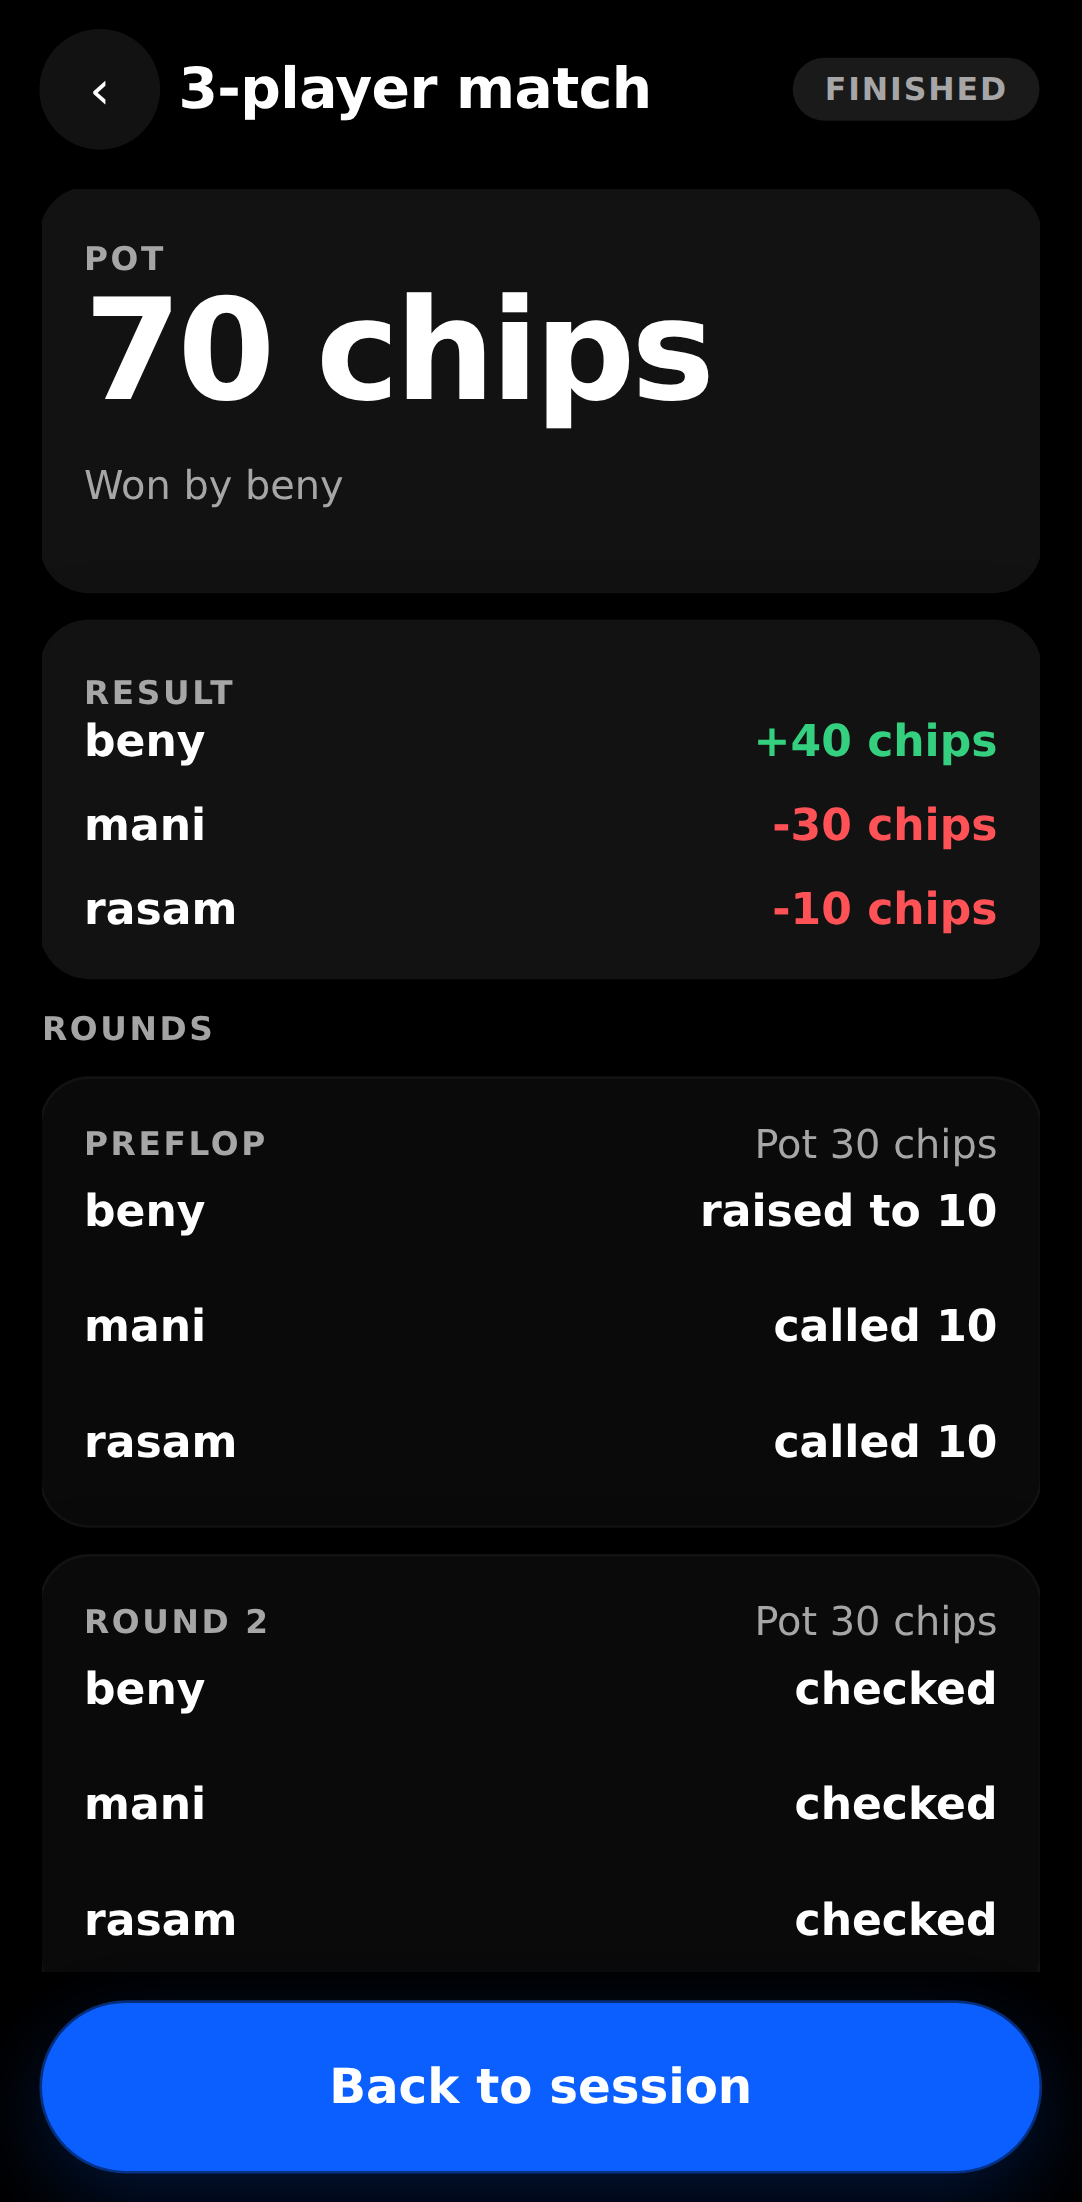
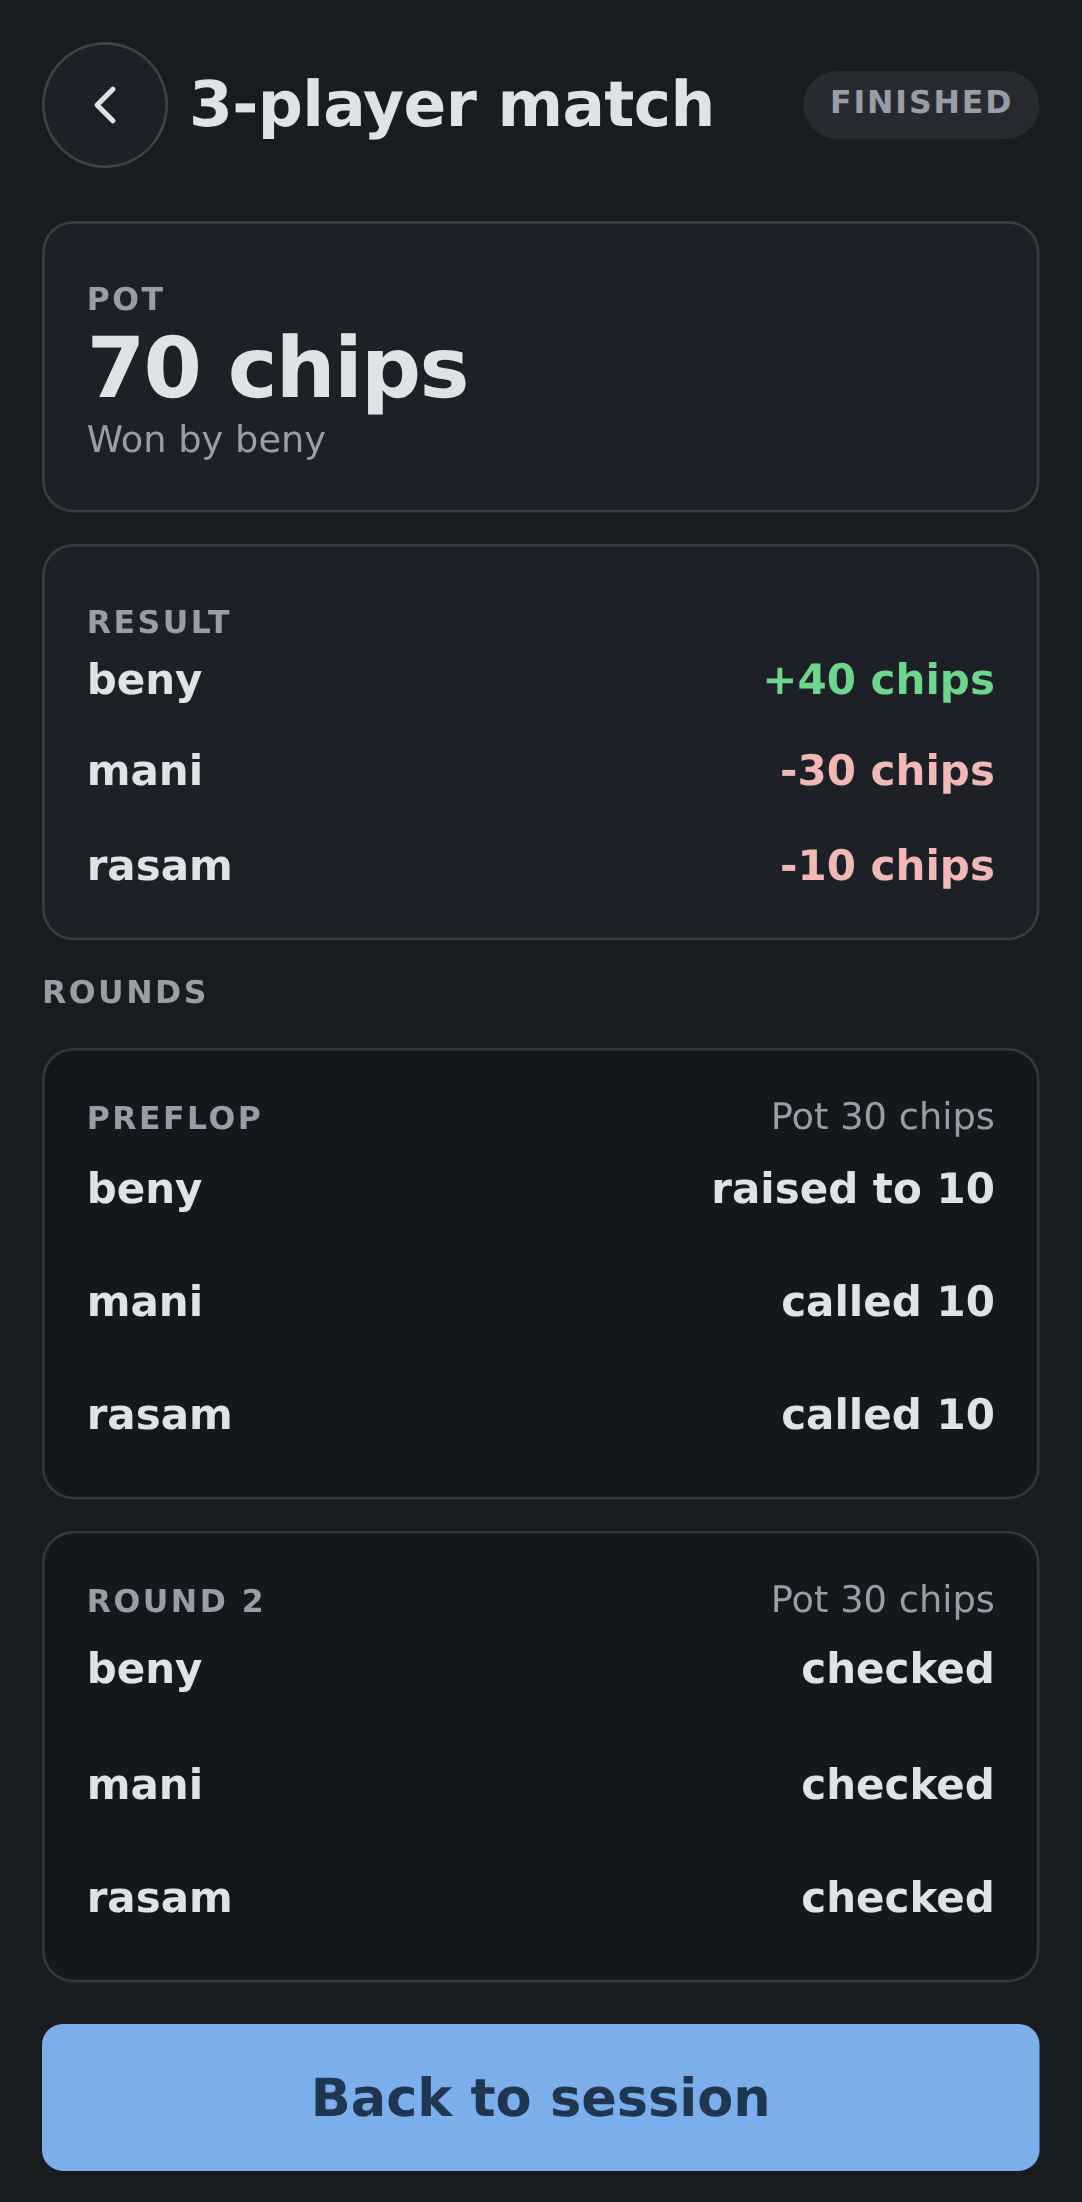
docs: regenerate screenshots and document house-style redesign

diff --git a/scripts/screenshots.ts b/scripts/screenshots.ts
@@ -3,7 +3,7 @@ import { existsSync } from "node:fs";
 import { mkdir, rm } from "node:fs/promises";
 import path from "node:path";
 import { fileURLToPath } from "node:url";
-import { type Page, chromium, devices } from "@playwright/test";
+import { type Browser, type Page, chromium, devices } from "@playwright/test";
 import type { AppConfig, Session } from "../src/domain";
 
 const root = fileURLToPath(new URL("..", import.meta.url));
@@ -11,7 +11,7 @@ const workDir = path.join(root, ".screenshots");
 const dataDir = path.join(workDir, "data");
 const locationFile = path.join(workDir, "location.yaml");
 const outputDir = path.join(root, "docs", "screenshots");
-const port = Number(process.env.SCREENSHOTS_PORT ?? 7405);
+const port = Number(process.env.SCREENSHOTS_PORT ?? 7407);
 const base = `http://127.0.0.1:${port}`;
 
 const config: AppConfig = {
@@ -165,9 +165,52 @@ async function shot(
 ): Promise<void> {
   await page.goto(`${base}${route}`, { waitUntil: "domcontentloaded" });
   await page.getByText(readyText, { exact: false }).first().waitFor({ timeout: 15_000 });
+  const theme = await page.evaluate(() => document.documentElement.dataset.theme);
+  if (theme !== "dark") {
+    throw new Error(`expected the dark theme for ${name}, got ${String(theme)}`);
+  }
   await page.waitForTimeout(300);
   await page.screenshot({ path: path.join(outputDir, `${name}.png`), fullPage });
   console.log(`captured ${name}.png`);
+}
+
+const THEME_STRIP = [
+  { name: "theme-light", theme: "light", colorScheme: "light", seed: null },
+  { name: "theme-dark", theme: "dark", colorScheme: "dark", seed: null },
+  { name: "theme-oled", theme: "oled", colorScheme: "light", seed: "oled" },
+] as const;
+
+async function captureThemeStrip(browser: Browser, route: string): Promise<void> {
+  const phone = devices["Pixel 7"];
+  for (const entry of THEME_STRIP) {
+    const context = await browser.newContext({
+      userAgent: phone.userAgent,
+      viewport: phone.viewport,
+      deviceScaleFactor: phone.deviceScaleFactor,
+      isMobile: phone.isMobile,
+      hasTouch: phone.hasTouch,
+      colorScheme: entry.colorScheme,
+      locale: "en-US",
+    });
+    if (entry.seed) {
+      const seeded = entry.seed;
+      await context.addInitScript((theme: string) => {
+        localStorage.setItem("poker.pot:theme", theme);
+        localStorage.setItem("poker.pot:accent", "blue");
+      }, seeded);
+    }
+    const page = await context.newPage();
+    await page.goto(`${base}${route}`, { waitUntil: "domcontentloaded" });
+    await page.getByText("Choose winners", { exact: false }).first().waitFor({ timeout: 15_000 });
+    const actual = await page.evaluate(() => document.documentElement.dataset.theme);
+    if (actual !== entry.theme) {
+      throw new Error(`expected ${entry.theme} for ${entry.name}, got ${String(actual)}`);
+    }
+    await page.waitForTimeout(300);
+    await page.screenshot({ path: path.join(outputDir, `${entry.name}.png`) });
+    console.log(`captured ${entry.name}.png`);
+    await context.close();
+  }
 }
 
 async function main(): Promise<void> {
@@ -200,6 +243,10 @@ async function main(): Promise<void> {
       colorScheme: "dark",
       locale: "en-US",
     });
+    await context.addInitScript(() => {
+      localStorage.setItem("poker.pot:theme", "dark");
+      localStorage.setItem("poker.pot:accent", "blue");
+    });
     const page = await context.newPage();
 
     await shot(page, "setup", "/setup", "private data folder", true);
@@ -219,6 +266,8 @@ async function main(): Promise<void> {
     await shot(page, "settings", "/settings", "Minimum raise", true);
 
     await context.close();
+
+    await captureThemeStrip(browser, `/sessions/${fridayId}/matches/${liveMatchId}`);
   } finally {
     await browser.close();
     server.kill("SIGTERM");

diff --git a/README.md b/README.md
@@ -22,8 +22,15 @@ editable, and standings recompute from it.
 | --- | --- | --- |
 | ![Session overview](docs/screenshots/session.png) | ![Settings](docs/screenshots/settings.png) | ![First-run setup](docs/screenshots/setup.png) |
 
+| Light | Dark | OLED |
+| --- | --- | --- |
+| ![Live match in Light](docs/screenshots/theme-light.png) | ![Live match in Dark](docs/screenshots/theme-dark.png) | ![Live match in OLED](docs/screenshots/theme-oled.png) |
+
+The base screenshots are captured in Dark; the theme strip shows the same live
+match in Light / Dark / OLED.
+
 Regenerate them with `bun run screenshots`. The script builds the app, starts a
-throwaway server on port 7405 with its own temporary data directory (it does not
+throwaway server on port 7407 with its own temporary data directory (it does not
 touch `location.yaml`), seeds a demo session, and captures the screens with
 Playwright. Install the browser once with `bunx playwright install chromium`. If
 the Playwright CDN is blocked, prefix the install with
@@ -40,6 +47,10 @@ bun run dev
 
 `bun run dev` starts two processes: the Bun API on `0.0.0.0:7403` and the Vite
 dev server on `0.0.0.0:7404` (strict), which proxies `/api` to the API.
+
+The app ships Light, Dark, and OLED themes with six accent colors (blue by
+default), switched in Settings → Appearance. The first run follows the system
+`prefers-color-scheme`, OLED is opt-in, and the choice is stored per device.
 
 To serve the built app and API from one process, for a phone on the same
 network:
@@ -61,7 +72,10 @@ first if needed. It logs to `/tmp/poker.pot-liveserver.log`, writes a pid to
 with `LIVE_SERVER_PORT`.
 
 Other scripts: `bun run test`, `bun run test:watch`, `bun run typecheck`,
-`bun run lint`, `bun run format`, `bun run screenshots`.
+`bun run lint`, `bun run format`, `bun run theme`, `bun run screenshots`.
+
+`bun run theme` regenerates `src/client/styles/tokens.css` from the palette in
+the design reference; the file is committed and never hand-edited.
 
 `bin/dev`, `bin/build` and `bin/run` are wrappers around the matching `bun`
 commands for shell aliasing.

diff --git a/AGENTS.md b/AGENTS.md
@@ -13,11 +13,11 @@ Personal projects use allocated ports in the 7400–7499 range. The pins live in
 | --- | --- | --- |
 | Live (UI + API) | `0.0.0.0:7403` | `./scripts/live.sh` (background) or `bun start` |
 | Dev Vite | `0.0.0.0:7404` | `bun run dev` (proxies `/api` to `http://localhost:7403`) |
-| Screenshots (transient) | `127.0.0.1:7405` | `bun run screenshots` |
+| Screenshots (transient) | `127.0.0.1:7407` | `bun run screenshots` |
 
 `bun run screenshots` is a transient, local-only helper: it starts a throwaway
-server on `7405`, captures the docs images, then exits. It is not a persistent
-service, so `7405` is not registered in the dashboard config. Override it with
+server on `7407`, captures the docs images, then exits. It is not a persistent
+service, so `7407` is not registered in the dashboard config. Override it with
 `SCREENSHOTS_PORT` if needed.
 
 The live port defaults to `7403` in `src/server/index.ts` and is overridable
@@ -35,10 +35,21 @@ bun run dev        # API + Vite dev servers
 bun run build      # vite build -> dist/
 bun start          # serve dist/ + API on 0.0.0.0:7403
 ./scripts/live.sh  # detached live server, builds dist/ if missing
+bun run theme      # regenerate src/client/styles/tokens.css
 bun run test
 bun run typecheck
 bun run lint
 ```
+
+## Design
+
+- Palette: skill `design` — six accents, default blue
+- Themes: Light / Dark / OLED; first run follows prefers-color-scheme; OLED opt-in
+- Type: system UI stack
+- Approved: 2026-10-08
+
+`src/client/styles/tokens.css` is generated by `bun run theme`; never hand-edit
+it. Components reference semantic tokens only.
 
 ## Hard rules
 
